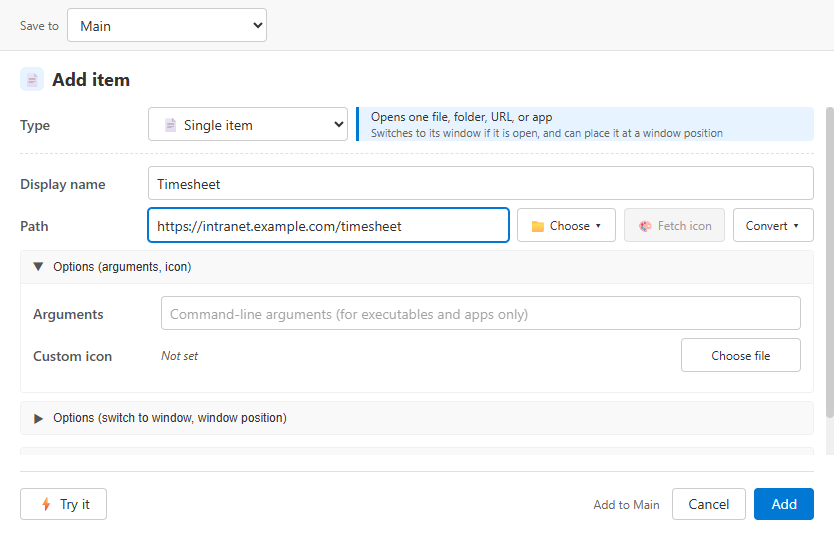
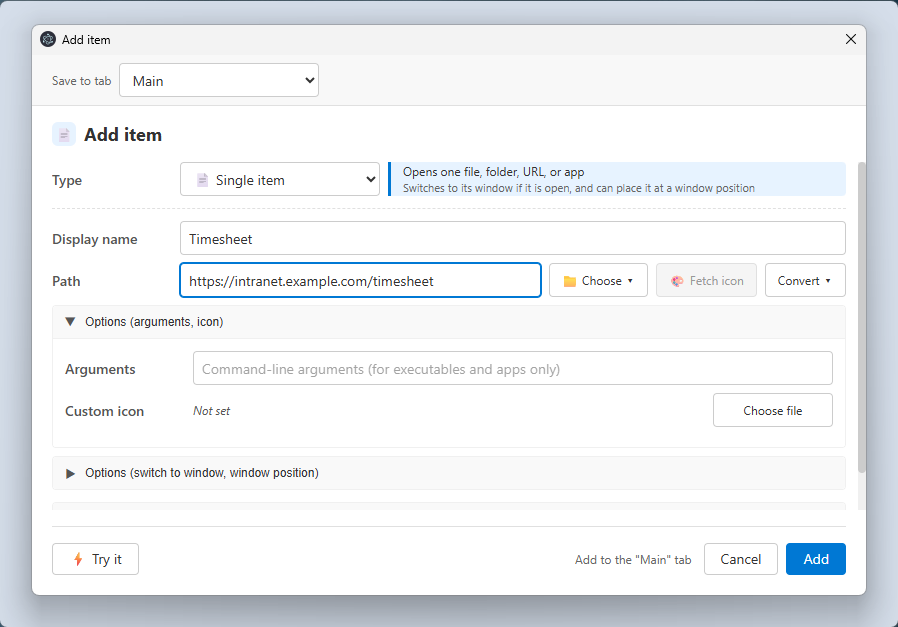
docs: README のデモ GIF の最初に goo map の場面を足し、画面イメージをウィンドウ全体で撮り直す（A3-241）

Changed region(s): [[0.0, 0.0, 1.0, 1.0], [0.1871, 0.6519, 0.2494, 0.6815]]

diff --git a/tests/demo-gif/readme-images.spec.ts b/tests/demo-gif/readme-images.spec.ts
@@ -11,6 +11,7 @@ import { ja } from '../../src/common/i18n/locales/ja';
 import { ConfigFileHelper } from '../e2e/helpers/config-file-helper';
 import { TestUtils } from '../e2e/helpers/test-utils';
 
+import { BACKDROP_MARGIN } from './demo-backdrop';
 import { demoContent, demoLang, writeDemoData } from './demo-data';
 
 /**
@@ -97,6 +98,91 @@ async function fetchIcons(main: Page): Promise<void> {
   await main.locator('.progress-close-btn').click();
 }
 
+/**
+ * ウィンドウを枠（タイトルバーと閉じるボタン）ごと撮る
+ *
+ * Playwright の screenshot はウィンドウの中身しか写さないので、メインデモ GIF と同じく画面を ffmpeg（gdigrab）で 1 枚撮る。
+ * ウィンドウの周りに BACKDROP_MARGIN の余白を取り、そこに GIF と同じ色の無地のウィンドウを敷いて、壁紙や他のアプリを写さない。
+ * 撮る間はウィンドウを最前面に固定し、撮り終えたら戻して敷いたウィンドウを閉じる
+ */
+async function shotWindow(app: ElectronApplication, page: Page, file: string): Promise<void> {
+  const title = await page.title();
+  await page.mouse.move(5, 5);
+  const { rect } = await app.evaluate(
+    ({ BrowserWindow, screen }, { t, margin }) => {
+      const win = BrowserWindow.getAllWindows().find((w) => w.isVisible() && w.getTitle() === t);
+      if (!win) throw new Error(`ウィンドウが見つかりません: ${t}`);
+      const b = win.getBounds();
+      const area = {
+        x: b.x - margin,
+        y: b.y - margin,
+        width: b.width + margin * 2,
+        height: b.height + margin * 2,
+      };
+      const backdrop = new BrowserWindow({
+        ...area,
+        frame: false,
+        resizable: false,
+        focusable: false,
+        skipTaskbar: true,
+        backgroundColor: '#d5deea',
+        show: false,
+      });
+      (globalThis as { __readmeBackdrop?: { destroy(): void } }).__readmeBackdrop = backdrop;
+      // 登録画面の後ろのランチャー（最前面のウィンドウ）も隠れるよう、背景も最前面にしてから、撮るウィンドウをその上に出す
+      backdrop.setAlwaysOnTop(true, 'screen-saver');
+      backdrop.show();
+      win.setAlwaysOnTop(true, 'screen-saver');
+      win.moveTop();
+      win.focus();
+      const scale = screen.getDisplayMatching(b).scaleFactor;
+      return {
+        rect: {
+          x: Math.round(area.x * scale),
+          y: Math.round(area.y * scale),
+          width: Math.round(area.width * scale),
+          height: Math.round(area.height * scale),
+        },
+      };
+    },
+    { t: title, margin: BACKDROP_MARGIN }
+  );
+  try {
+    // ウィンドウと敷いた背景の描画が落ち着くのを待つ
+    await page.waitForTimeout(800);
+    fs.mkdirSync(path.dirname(file), { recursive: true });
+    execFileSync('ffmpeg', [
+      '-y',
+      '-v',
+      'error',
+      '-f',
+      'gdigrab',
+      '-draw_mouse',
+      '0',
+      '-offset_x',
+      String(rect.x),
+      '-offset_y',
+      String(rect.y),
+      '-video_size',
+      `${rect.width}x${rect.height}`,
+      '-i',
+      'desktop',
+      '-frames:v',
+      '1',
+      file,
+    ]);
+  } finally {
+    await app.evaluate(({ BrowserWindow }, t) => {
+      BrowserWindow.getAllWindows()
+        .find((w) => w.isVisible() && w.getTitle() === t)
+        ?.setAlwaysOnTop(false);
+      const g = globalThis as { __readmeBackdrop?: { destroy(): void } };
+      g.__readmeBackdrop?.destroy();
+      g.__readmeBackdrop = undefined;
+    }, title);
+  }
+}
+
 /** 撮るウィンドウの高さを変える（下の余白を詰めて撮るため）。ウィンドウはタイトルで探す */
 async function resizeWindow(app: ElectronApplication, page: Page, height: number): Promise<void> {
   const title = await page.title();
@@ -162,7 +248,7 @@ async function takeShots(configDir: string, demoRoot: string): Promise<void> {
     await preview.locator('.dir-preview-item').first().waitFor({ state: 'visible' });
     await shot(register, path.join(ALT_DIR, 'register-dir-full.png'));
     await resizeWindow(app, register, 760);
-    await shot(register, imagePath('readme-register-dir'));
+    await shotWindow(app, register, imagePath('readme-register-dir'));
 
     // 登録画面（単一アイテム）: 日本語は名前にローマ字を添える例
     await selects.nth(0).selectOption({ label: item.tab });
@@ -175,7 +261,7 @@ async function takeShots(configDir: string, demoRoot: string): Promise<void> {
     });
     if ((await optionsToggle.textContent())?.includes('▼')) await optionsToggle.click();
     await resizeWindow(app, register, 540);
-    await shot(register, imagePath('readme-register-item'));
+    await shotWindow(app, register, imagePath('readme-register-item'));
     await register.close();
 
     // 管理画面（アイテム管理）: 案件 A のタブ。フォルダ取込・URL・Teams のチャットが並ぶ
@@ -186,7 +272,7 @@ async function takeShots(configDir: string, demoRoot: string): Promise<void> {
     await admin.locator('.raw-item-row').first().waitFor({ state: 'visible' });
     await shot(admin, path.join(ALT_DIR, 'admin-a-full.png'));
     await resizeWindow(app, admin, 560);
-    await shot(admin, imagePath('readme-admin'));
+    await shotWindow(app, admin, imagePath('readme-admin'));
   } finally {
     await app.close().catch(() => {});
   }

diff --git a/tests/demo-gif/demo-content-ja.ts b/tests/demo-gif/demo-content-ja.ts
@@ -116,6 +116,7 @@ function dailyItems(root: string): DemoItem[] {
     item('Google カレンダー', 'https://calendar.google.com/'),
     item('Gmail', 'https://mail.google.com/'),
     item('Google ドライブ', 'https://drive.google.com/'),
+    item('Google Maps', 'https://www.google.co.jp/maps'),
     item('Slack', 'https://slack.com/'),
     item('Zoom', 'https://zoom.us/'),
     item('翻訳（DeepL）', 'https://www.deepl.com/translator'),
@@ -329,6 +330,8 @@ export const jaContent: DemoContent = {
     apps: appItems(),
   }),
   demo: {
+    quick: 'goo',
+    quickRefine: ' map',
     search: 'db',
     refine: ' ec',
     minutes: '09-30',
@@ -336,6 +339,7 @@ export const jaContent: DemoContent = {
     otherTab: 'TypeS',
     captions: {
       intro: 'フォルダも資料も Web もアプリも、ここから開く',
+      quick: '名前の一部を打てば、すぐ絞り込める',
       tabs: '案件・ブックマーク・アプリは、タブで分けて整理',
       search: '名前の一部を打つと、候補が絞られる',
       refine: 'スペースで区切れば、さらに絞れる',

diff --git a/tests/demo-gif/main-demo.spec.ts b/tests/demo-gif/main-demo.spec.ts
@@ -184,6 +184,15 @@ test('メインデモ', async () => {
     await win.waitForTimeout(1500);
     const startSec = Math.max(0, (Date.now() - recordStart) / 1000 - 0.7);
 
+    // 0. まず README の検索の例と同じ「goo」→「goo map」で、名前の一部で並び、足すと 1 件に絞れるのを見せる
+    await caption(win, CONTENT.demo.captions.quick);
+    await win.keyboard.type(CONTENT.demo.quick, { delay: TYPE_DELAY_MS });
+    await win.waitForTimeout(1200);
+    await win.keyboard.type(CONTENT.demo.quickRefine, { delay: TYPE_DELAY_MS });
+    await win.waitForTimeout(1600);
+    await clearSearch(win);
+    await win.waitForTimeout(500);
+
     // 1. メインタブ → タブを一巡して、案件・ブックマーク・アプリに整理されている様子を見せる
     await caption(win, CONTENT.demo.captions.tabs);
     for (let i = 0; i < 5; i++) {

diff --git a/tests/demo-gif/demo-data.ts b/tests/demo-gif/demo-data.ts
@@ -40,13 +40,16 @@ export interface DemoContent {
   };
   /** メインデモ GIF で打つ言葉と、画面下の説明文（DEMO_CAPTIONS=1 のときだけ出す） */
   demo: {
+    /** 最初の場面で打つ言葉（README の検索の例と同じ。quick で並び、quickRefine を足すと 1 件に絞れる） */
+    quick: string;
+    quickRefine: string;
     search: string;
     refine: string;
     minutes: string;
     chat: string;
     otherTab: string;
     captions: Record<
-      'intro' | 'tabs' | 'search' | 'refine' | 'open' | 'minutes' | 'chat' | 'otherTab',
+      'intro' | 'quick' | 'tabs' | 'search' | 'refine' | 'open' | 'minutes' | 'chat' | 'otherTab',
       string
     >;
   };

diff --git a/tests/demo-gif/demo-content-en.ts b/tests/demo-gif/demo-content-en.ts
@@ -325,6 +325,8 @@ export const enContent: DemoContent = {
     apps: appItems(),
   }),
   demo: {
+    quick: 'goo',
+    quickRefine: ' map',
     search: 'bas des',
     refine: ' scr',
     minutes: '09-30',
@@ -332,6 +334,7 @@ export const enContent: DemoContent = {
     otherTab: 'TypeS',
     captions: {
       intro: 'Open folders, files, websites, and apps from one place',
+      quick: 'Type part of a name to find it right away',
       tabs: 'Organize projects, bookmarks, and apps into tabs',
       search: 'Type part of a name to narrow the list',
       refine: 'Add words separated by spaces to narrow it further',
